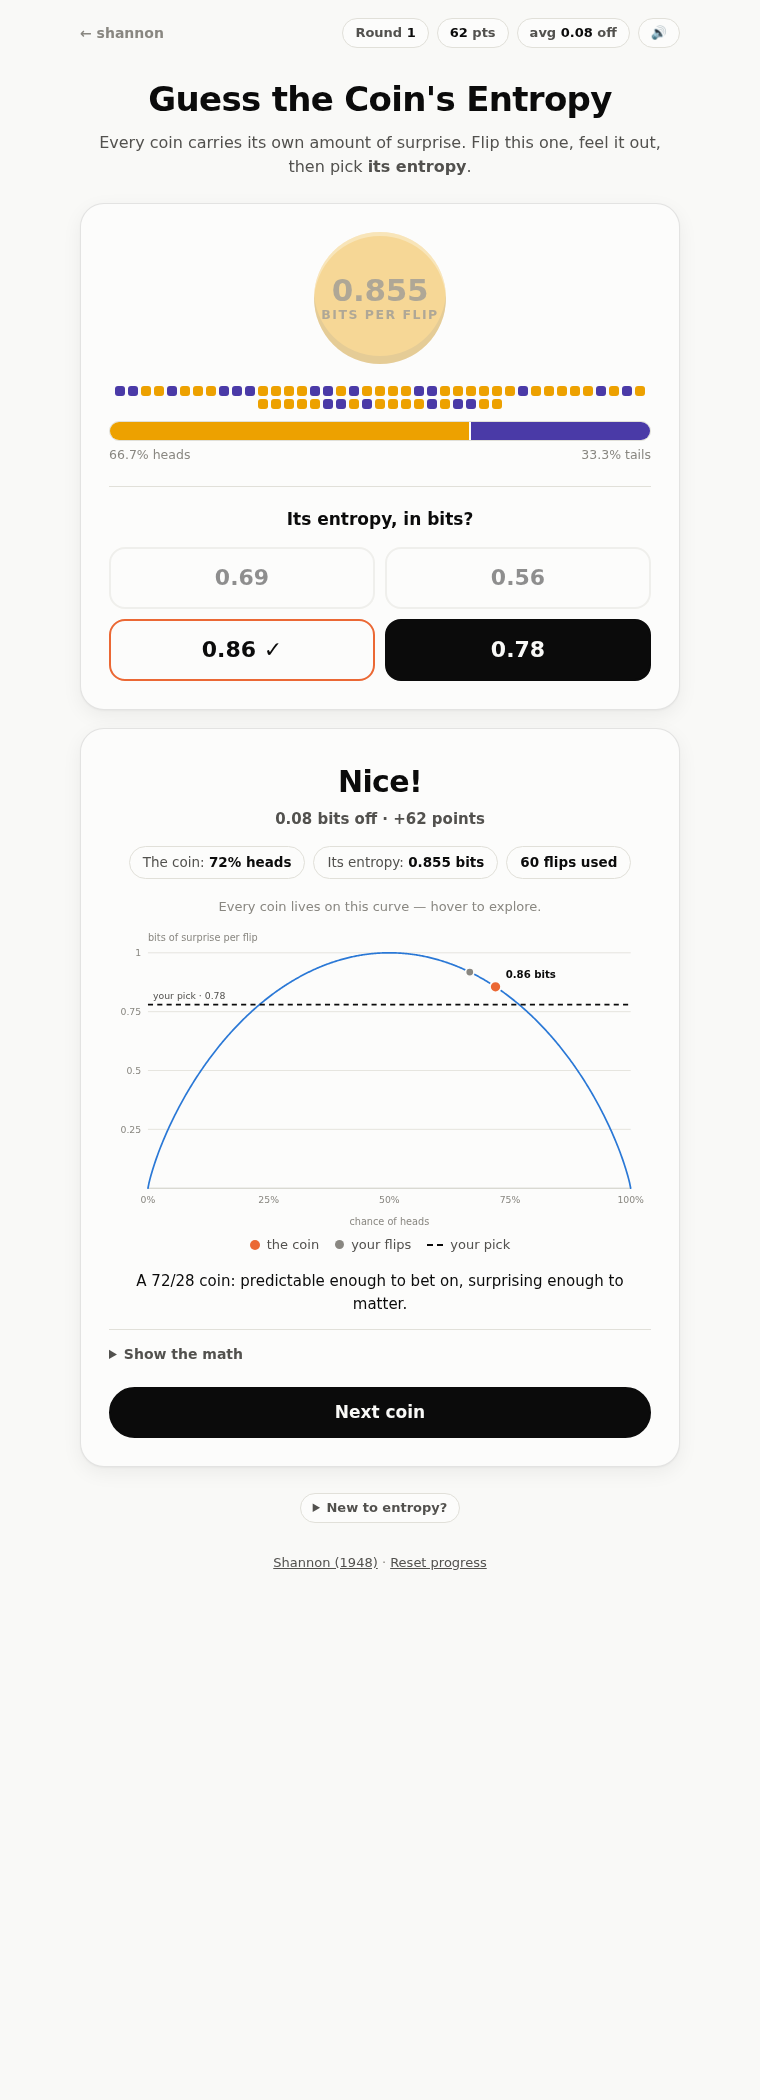
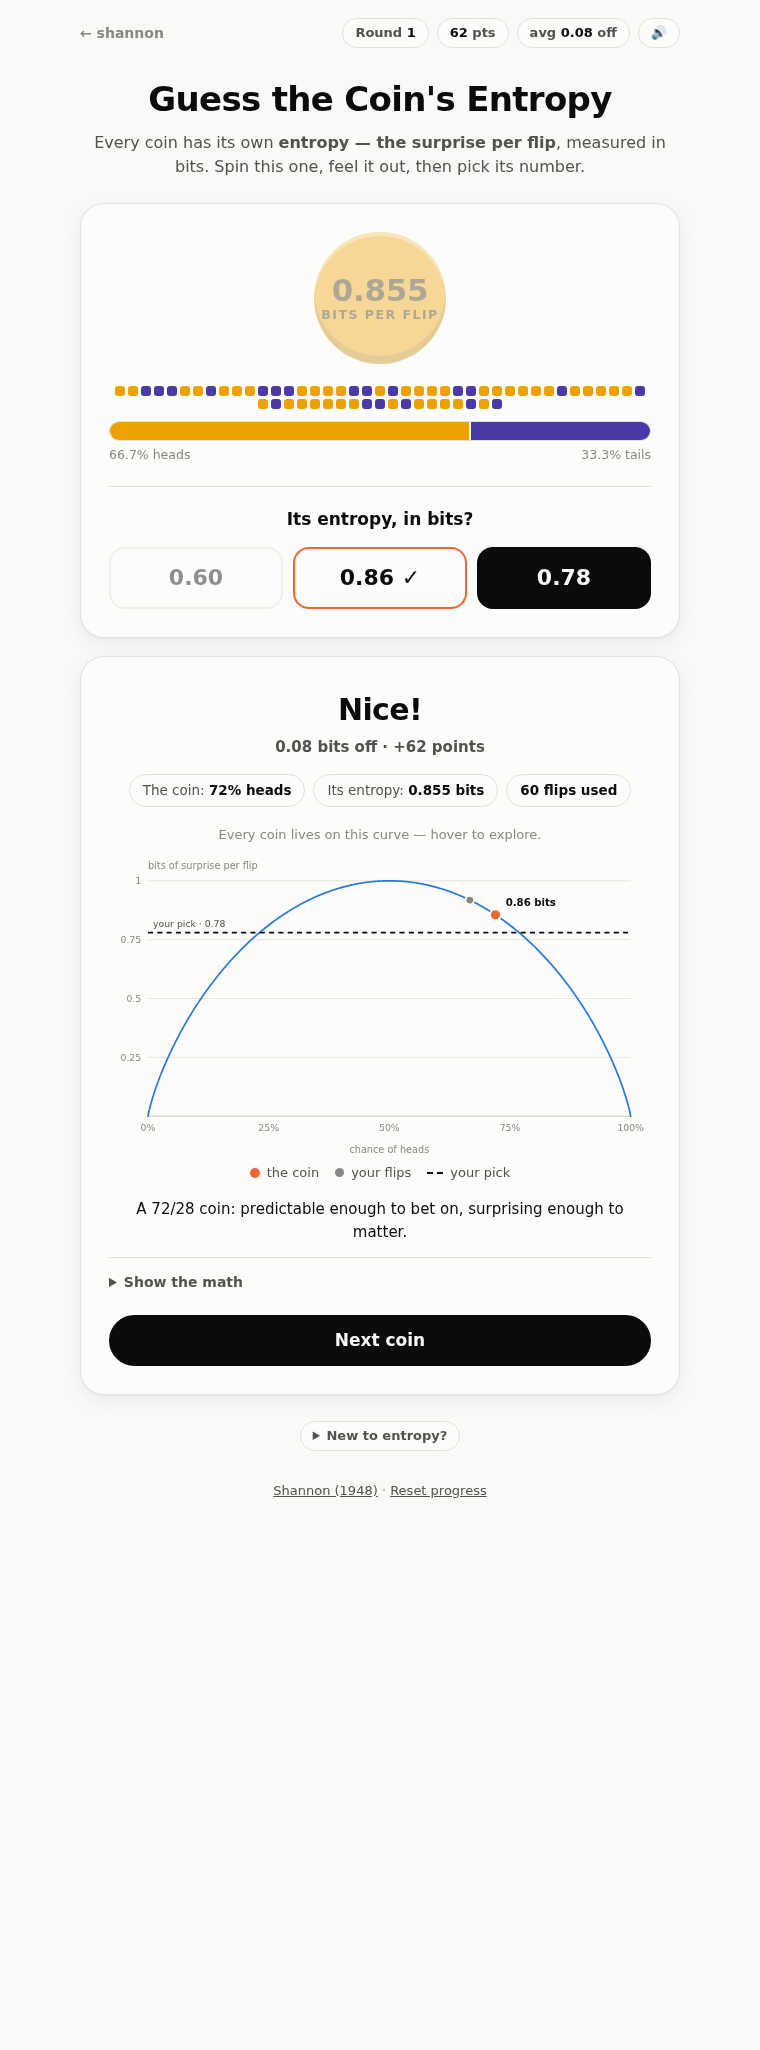
Three answer choices; subtitle defines entropy as surprise per flip
One truth, one close distractor, one far — a single row of options.
Tagline now carries the concept: "entropy — the surprise per flip,
measured in bits."

Claude-Session: https://claude.ai/code/session_019UUezJJywyzG6fS6X6S1CS

diff --git a/games/coin-entropy/game.js b/games/coin-entropy/game.js
@@ -51,13 +51,13 @@ function newCoin() {
   return { p, H: entropyBits(p) };
 }
 
-// Four answers: the truth plus three distractors at graded distances,
+// Three answers: the truth plus two distractors — one close, one far —
 // all ≥ 0.05 bits apart so exactly one option is defensibly right.
 function makeOptions(H) {
   const sep = 0.05;
   const r2 = (x) => Math.round(Math.min(1, Math.max(0, x)) * 100) / 100;
   const vals = [r2(H)];
-  const bands = [[0.06, 0.11], [0.13, 0.2], [0.24, 0.4]];
+  const bands = [[0.06, 0.12], [0.16, 0.32]];
   for (const [lo, hi] of bands) {
     const off = lo + rand() * (hi - lo);
     const sign = rand() < 0.5 ? -1 : 1;

diff --git a/games/coin-entropy/index.html b/games/coin-entropy/index.html
@@ -23,7 +23,7 @@
 
   <header class="masthead">
     <h1>Guess the Coin's Entropy</h1>
-    <p class="tagline">Every coin carries its own amount of surprise. Flip this one, feel it out, then pick <strong>its entropy</strong>.</p>
+    <p class="tagline">Every coin has its own <strong>entropy — the surprise per flip</strong>, measured in bits. Spin this one, feel it out, then pick its number.</p>
   </header>
 
   <main>

diff --git a/games/coin-entropy/style.css b/games/coin-entropy/style.css
@@ -212,7 +212,7 @@ button:disabled { opacity: 0.4; cursor: default; }
 
 .ask { text-align: center; font-weight: 800; font-size: 17px; margin: 0 0 14px; }
 
-.answers { display: grid; grid-template-columns: repeat(2, 1fr); gap: 10px; }
+.answers { display: grid; grid-template-columns: repeat(3, 1fr); gap: 10px; }
 .answer {
   font: 800 22px/1 system-ui, -apple-system, "Segoe UI", Roboto, sans-serif;
   color: var(--ink);

diff --git a/README.md b/README.md
@@ -25,10 +25,11 @@ or just open `index.html` straight from disk. Everything works offline.
 
 A coin is minted with a secret bias. Press it to spin, release to let it coast and
 land — every flip is a real toss. Watch the tally drift, then pick **its entropy**
-from four candidate values: one is exact, three are distractors at graded
-distances, so you still have to genuinely discriminate. Scoring is by how far your
-pick lands from the truth, and the reveal shows where the coin truly sits on the
-binary entropy curve, what your flips suggested, and how far off you were.
+— the surprise per flip — from three candidate values: one is exact, the other two
+are distractors (one close, one far), so you still have to genuinely discriminate.
+Scoring is by how far your pick lands from the truth, and the reveal shows where
+the coin truly sits on the binary entropy curve, what your flips suggested, and
+how far off you were.
 
 Entropy is treated as a tangible property of the coin itself: heads and tails are
 distinct faces engraved like a real coin (obverse: gold, Shannon's portrait;
